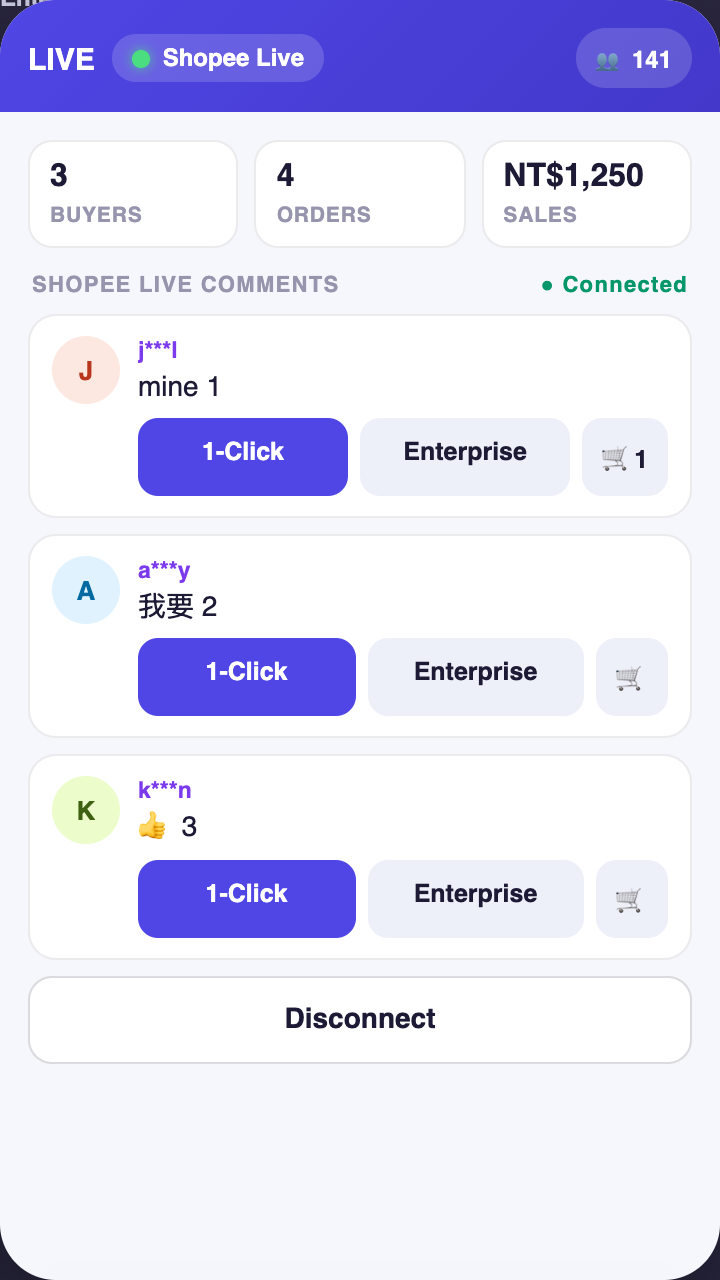
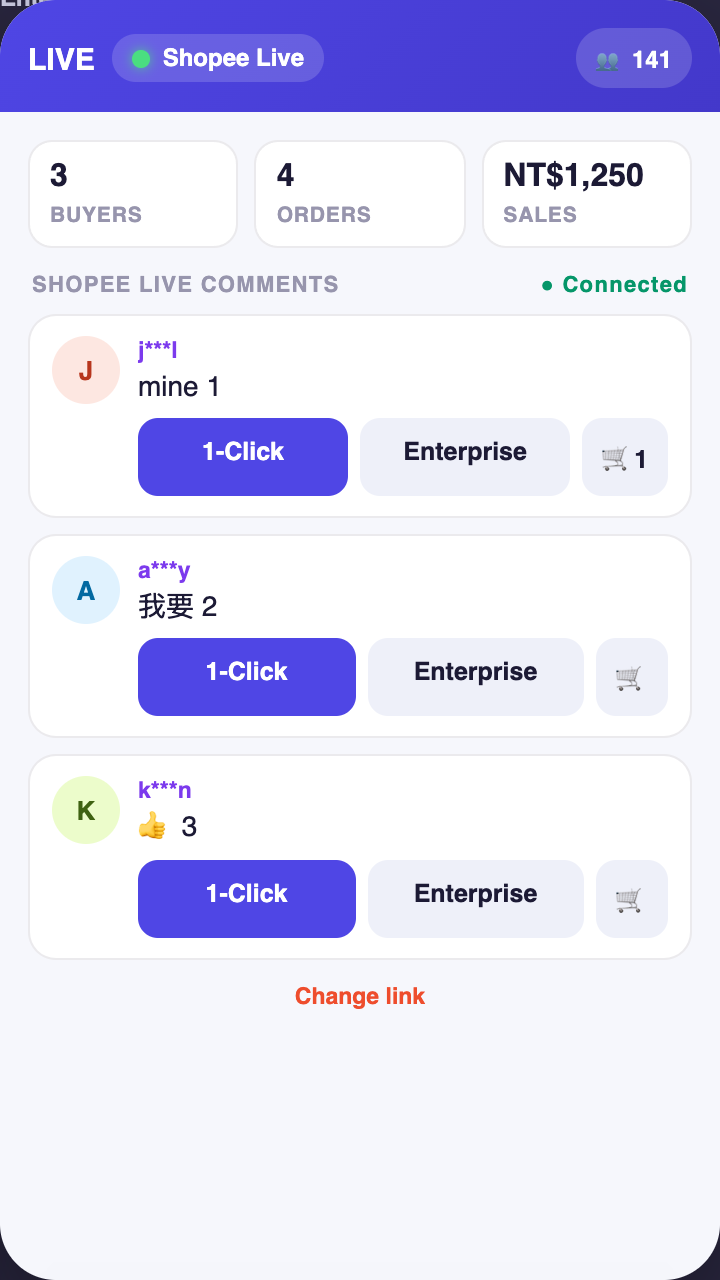
Shopee Live beta — mockups: connected screen shows a small 'Change link' text link (no Disconnect); rd_sh_change_link + rd_sh_own_only strings, rd_sh_help renamed rd_sh_link_help

Changed region(s): [[0.3972, 0.75, 0.6111, 0.8125]]

diff --git a/design-redesign/shopee-beta/mockups.html b/design-redesign/shopee-beta/mockups.html
@@ -98,7 +98,7 @@
     <div class="c"><div class="av">J</div><div style="flex:1"><div class="h">j***l</div><div class="tx">mine 1</div><div class="acts"><div class="a1">1-Click</div><div class="a2">Enterprise</div><div class="bk">🛒1</div></div></div></div>
     <div class="c"><div class="av" style="background:#e0f2fe;color:#0369a1">A</div><div style="flex:1"><div class="h">a***y</div><div class="tx">我要 2</div><div class="acts"><div class="a1">1-Click</div><div class="a2">Enterprise</div><div class="bk">🛒</div></div></div></div>
     <div class="c"><div class="av" style="background:#ecfccb;color:#3f6212">K</div><div style="flex:1"><div class="h">k***n</div><div class="tx">👍 3</div><div class="acts"><div class="a1">1-Click</div><div class="a2">Enterprise</div><div class="bk">🛒</div></div></div></div>
-    <div class="btn ghost" style="margin-top:6px">Disconnect</div>
+    <div class="help" style="margin-top:10px;text-align:center;color:var(--shopee);font-weight:700">Change link</div>
   </div>
 </div></div>
 
